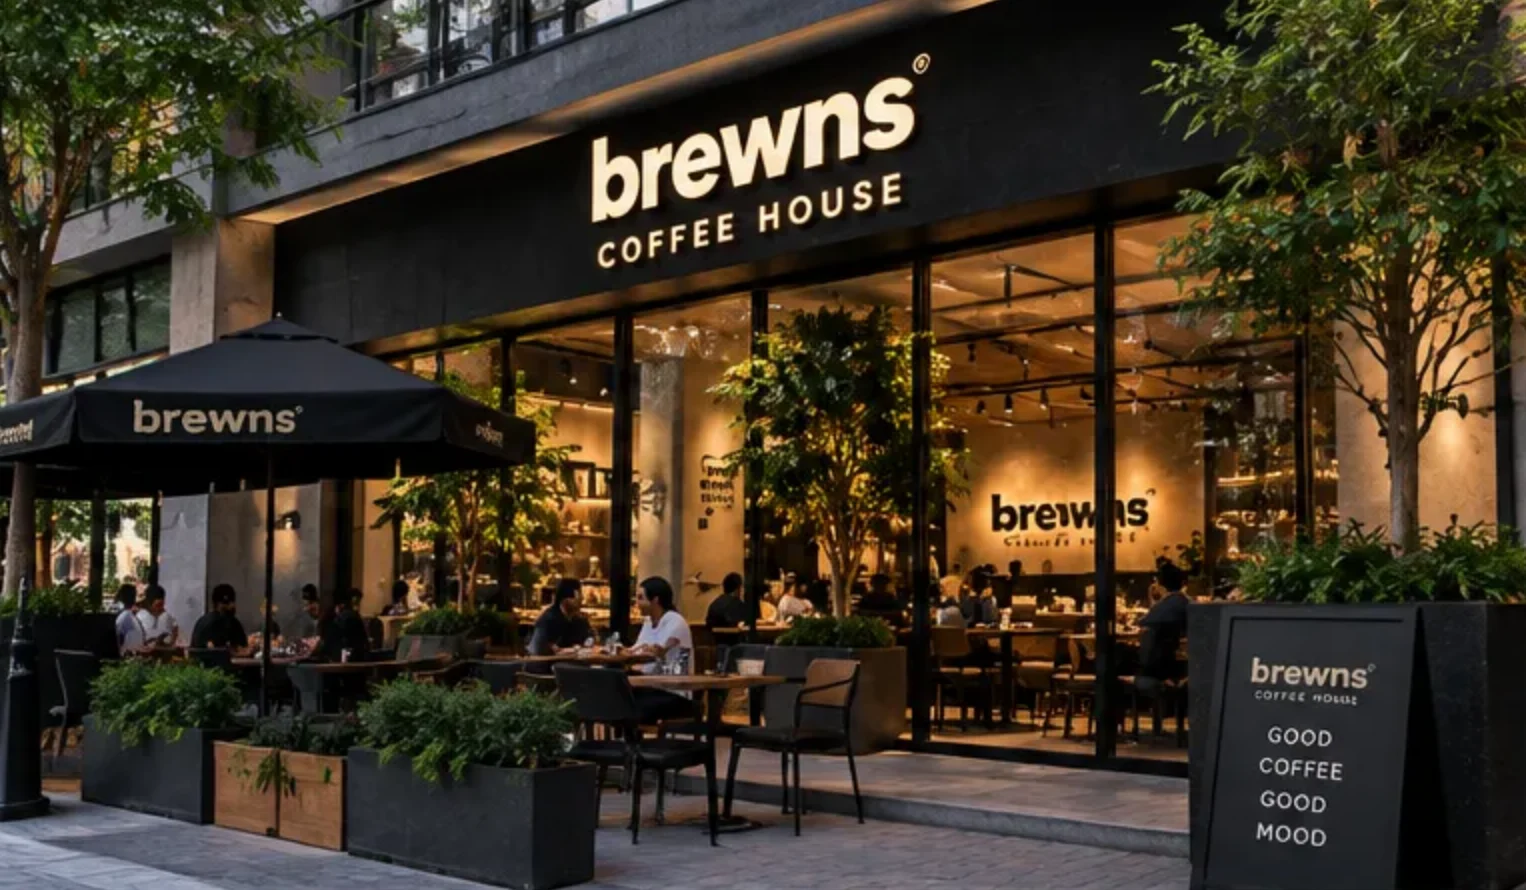
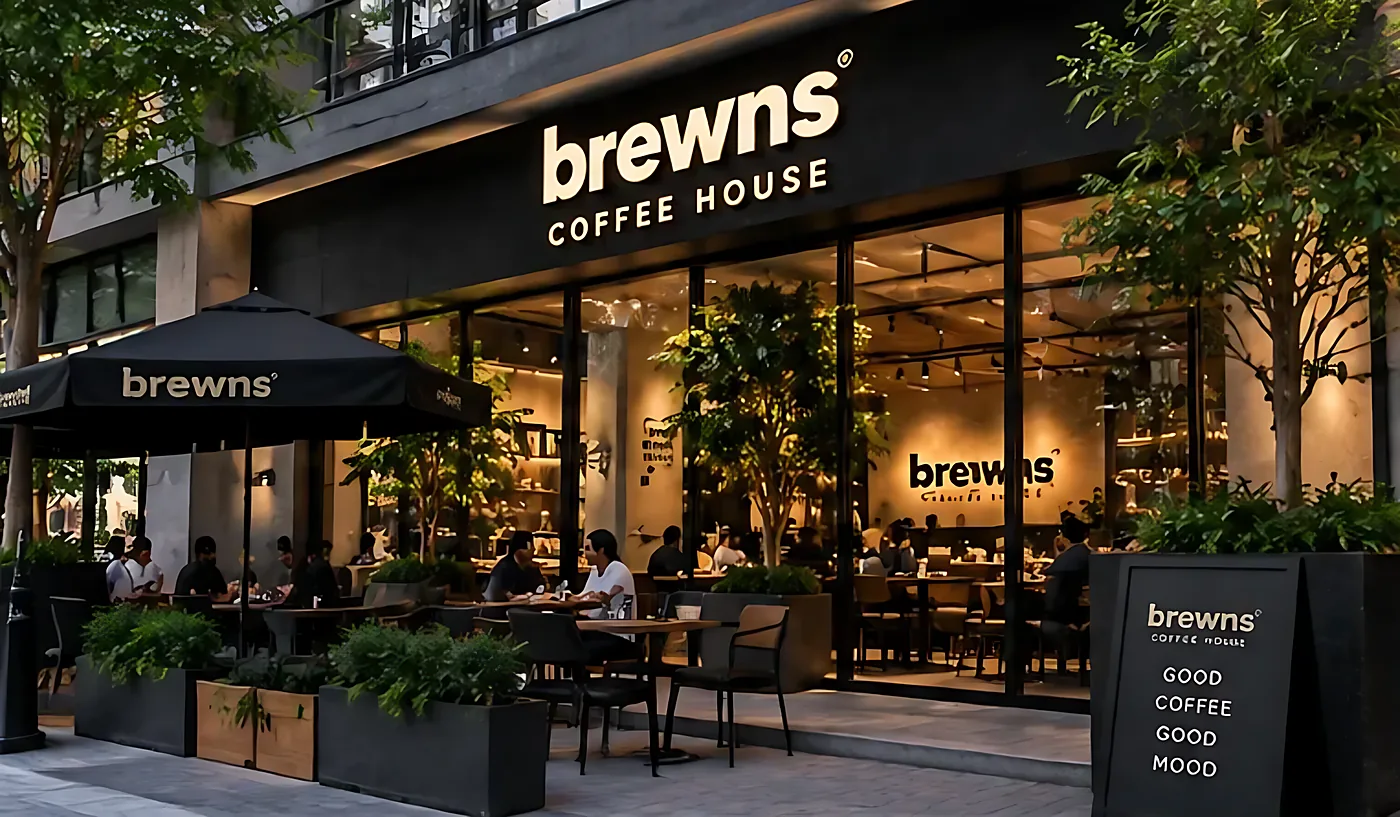
Sharper Inside photos: Real-ESRGAN, two sizes, less zoom
- The eight Inside brewns photos are sharpened with Real-ESRGAN
  (realesr-general-x4v3): crisp edges and signage, less blur and compression
  noise. scripts/upscale-photos.py reads the model's weights without PyTorch,
  rebuilds the network as ONNX and runs it on the CPU; originals are kept in
  assets-src/locations/inside/
- Two sizes per photo, picked per tile with srcset: 1400 px for the page and
  2400 px for big screens; the viewer always shows the 2400 px one
- The drift and hover zoom enlarge the photos much less (6.5% instead of 12%,
  drift 3% instead of 5%) and the will-change hint is gone, so the browser
  no longer shows a softened, upscaled layer

Claude-Session: https://claude.ai/code/session_01KXNNWqCmnSiRyxWub1HZV8

diff --git a/components/brewns/initBrewns.ts b/components/brewns/initBrewns.ts
@@ -1072,6 +1072,16 @@ inview($(".ftr-giant"), { opacity: 0, y: 80 }, { opacity: 1, y: 0 }, { config: C
   const box = $("#inside-box");
   const tiles = $$(".inside-open");
   const grid = $(".inside-grid");
+  // Each photo comes in two sizes (scripts/upscale-photos.py): 1400 px for the
+  // page, 2400 px for big screens and the viewer. The browser picks per tile.
+  const hiRes = (src) => src.replace(/(@2x)?\.webp(\?.*)?$/, "@2x.webp");
+  tiles.forEach((t) => {
+    const img = $("img", t);
+    const src = img.getAttribute("src");
+    const tile = t.parentElement;
+    img.srcset = `${src} 1400w, ${hiRes(src)} 2400w`;
+    img.sizes = tile.matches(".big, .wide") ? "(min-width: 1100px) 38vw, (min-width: 800px) 50vw, 100vw" : "(min-width: 1100px) 19vw, (min-width: 800px) 25vw, 50vw";
+  });
 
   /* ── right now: open or closed, how busy it usually is, what's there ── */
   // Typical busyness by hour, 07:00–20:00 (0–100). Weekends run later.
@@ -1136,7 +1146,7 @@ inview($(".ftr-giant"), { opacity: 0, y: 80 }, { opacity: 1, y: 0 }, { config: C
       for (const t of tiles) {
         const r = t.getBoundingClientRect();
         const p = Math.max(-1, Math.min(1, (r.top + r.height / 2 - vh / 2) / vh));
-        $("img", t).style.translate = `0 ${(-p * 5).toFixed(2)}%`;
+        $("img", t).style.translate = `0 ${(-p * 3).toFixed(2)}%`;
       }
     });
 
@@ -1183,7 +1193,7 @@ inview($(".ftr-giant"), { opacity: 0, y: 80 }, { opacity: 1, y: 0 }, { config: C
     const img = $("img", tiles[at]);
     const cap = tiles[at].parentElement.querySelector("figcaption");
     const swap = () => {
-      bigImg.src = img.src;
+      bigImg.src = hiRes(img.getAttribute("src"));
       bigImg.alt = img.alt;
       bigImg.classList.remove("out");
     };
@@ -1196,7 +1206,7 @@ inview($(".ftr-giant"), { opacity: 0, y: 80 }, { opacity: 1, y: 0 }, { config: C
     $$("[data-inside-go]", box).forEach((b, k) => b.setAttribute("aria-selected", String(k === at)));
     $(`[data-inside-go="${at}"]`, box)?.scrollIntoView({ block: "nearest", inline: "center" });
     // warm the neighbours so stepping is instant
-    [at + 1, at - 1].forEach((k) => (new Image().src = $("img", tiles[(k + tiles.length) % tiles.length]).src));
+    [at + 1, at - 1].forEach((k) => (new Image().src = hiRes($("img", tiles[(k + tiles.length) % tiles.length]).getAttribute("src"))));
   };
   const close = () => {
     box.hidden = true;

diff --git a/app/sections.css b/app/sections.css
@@ -163,7 +163,7 @@
 .inside-tile.wide { grid-column: span 2; }
 @media (max-width: 799.98px) { .inside-tile.big { grid-row: span 2; } }
 .inside-open { display: block; width: 100%; height: 100%; cursor: zoom-in; }
-.inside-tile img { width: 100%; height: 100%; object-fit: cover; transition: transform 900ms var(--ease-entrance), filter 600ms; filter: saturate(0.95); }
+.inside-tile img { width: 100%; height: 100%; object-fit: cover; transition: transform 900ms var(--ease-entrance), filter 600ms; }
 .inside-tile:hover img { transform: scale(1.06); filter: saturate(1.1); }
 .inside-tile figcaption {
   position: absolute; left: 0; right: 0; bottom: 0; display: flex; flex-direction: column; gap: 0.15rem; padding: 2.5rem 0.9rem 0.8rem; pointer-events: none;
@@ -366,8 +366,9 @@
 .inside-amen svg { width: 1.05rem; height: 1.05rem; flex: none; color: #d8b777; }
 
 /* photos: drift with the page (translate), zoom on hover (scale), the rest dim */
-.inside-tile img { transform: none; scale: 1.12; translate: 0 0; transition: scale 900ms var(--ease-entrance), filter 500ms; will-change: translate; }
-.inside-tile:hover img { transform: none; scale: 1.18; filter: saturate(1.1); }
+/* only as much zoom as the 3% drift needs, so the photos stay sharp */
+.inside-tile img { transform: none; scale: 1.065; translate: 0 0; transition: scale 900ms var(--ease-entrance), filter 500ms; }
+.inside-tile:hover img { transform: none; scale: 1.11; filter: saturate(1.08); }
 @media (hover: hover) { .inside-grid:hover .inside-tile:not(:hover) img { filter: saturate(0.75) brightness(0.62); } }
 .inside-tile::after { content: ""; position: absolute; inset: 0; border-radius: inherit; box-shadow: inset 0 0 0 1px rgb(216 183 119 / 0); transition: box-shadow 400ms; pointer-events: none; }
 .inside-tile:hover::after { box-shadow: inset 0 0 0 1px rgb(216 183 119 / 0.55); }

diff --git a/scripts/upscale-photos.py b/scripts/upscale-photos.py
@@ -1,0 +1,148 @@
+"""
+Sharpens photos with Real-ESRGAN (realesr-general-x4v3, BSD-3-Clause, by
+Xintao Wang et al.), a small network made for real-world photos: soft focus,
+upscaling blur and compression artefacts.
+
+It needs no PyTorch: the weights are read straight from the .pth file, the
+network (SRVGGNetCompact) is rebuilt as an ONNX graph, and ONNX Runtime runs
+it on the CPU.
+
+  pip install onnx onnxruntime pillow numpy
+  python scripts/upscale-photos.py public/assets/locations/inside
+
+For every photo it writes two sizes next to the original, from one 4x pass:
+  <name>.webp     1400 px wide, for the page
+  <name>@2x.webp  2400 px wide, for the full-screen viewer and big screens
+The untouched original is kept in assets-src/<folder>/ the first time.
+"""
+import io
+import pickle
+import shutil
+import sys
+import urllib.request
+import zipfile
+from pathlib import Path
+
+import numpy as np
+import onnx
+import onnxruntime as ort
+from onnx import TensorProto, helper, numpy_helper
+from PIL import Image, ImageFilter
+
+ROOT = Path(__file__).resolve().parent.parent
+WEIGHTS_URL = "https://github.com/xinntao/Real-ESRGAN/releases/download/v0.2.5.0/realesr-general-x4v3.pth"
+CACHE = ROOT / "tools" / "upscale"
+SIZES = {"": 1400, "@2x": 2400}
+TILE, PAD = 192, 12
+
+
+def load_pth(path):
+    """A PyTorch state dict as numpy arrays, without PyTorch."""
+    z = zipfile.ZipFile(path)
+    prefix = z.namelist()[0].split("/")[0]
+    kinds = {"FloatStorage": np.float32, "HalfStorage": np.float16}
+
+    class Unpickler(pickle.Unpickler):
+        def find_class(self, mod, name):
+            if name == "_rebuild_tensor_v2":
+                def rebuild(storage, offset, size, stride, *_):
+                    if not size:
+                        return storage[offset:offset + 1].reshape(())
+                    return np.lib.stride_tricks.as_strided(
+                        storage[offset:], shape=size, strides=[s * storage.itemsize for s in stride]
+                    ).copy()
+                return rebuild
+            if name in kinds:
+                return kinds[name]
+            if mod == "collections" and name == "OrderedDict":
+                import collections
+                return collections.OrderedDict
+            return super().find_class(mod, name)
+
+        def persistent_load(self, pid):
+            _, dtype, key, _loc, _n = pid
+            return np.frombuffer(z.read(f"{prefix}/data/{key}"), dtype=dtype)
+
+    obj = Unpickler(io.BytesIO(z.read(f"{prefix}/data.pkl"))).load()
+    return obj.get("params_ema") or obj.get("params") or obj
+
+
+def build_onnx(sd, upscale=4):
+    """SRVGGNetCompact: conv + PReLU layers, pixel shuffle, plus a nearest-neighbour skip."""
+    convs = sorted({int(k.split(".")[1]) for k in sd if k.endswith(".weight") and sd[k].ndim == 4})
+    nodes, inits = [], []
+    x = "input"
+    for i in convs:
+        w, b = f"body.{i}.weight", f"body.{i}.bias"
+        inits += [numpy_helper.from_array(sd[w].astype(np.float32), w), numpy_helper.from_array(sd[b].astype(np.float32), b)]
+        nodes.append(helper.make_node("Conv", [x, w, b], [f"c{i}"], pads=[1, 1, 1, 1]))
+        x = f"c{i}"
+        slope = f"body.{i + 1}.weight"
+        if slope in sd:
+            inits.append(numpy_helper.from_array(sd[slope].astype(np.float32).reshape(-1, 1, 1), slope))
+            nodes.append(helper.make_node("PRelu", [x, slope], [f"a{i}"]))
+            x = f"a{i}"
+    nodes.append(helper.make_node("DepthToSpace", [x], ["up"], blocksize=upscale, mode="CRD"))
+    inits.append(numpy_helper.from_array(np.array([1, 1, upscale, upscale], np.float32), "scales"))
+    nodes.append(helper.make_node("Resize", ["input", "", "scales"], ["base"], mode="nearest"))
+    nodes.append(helper.make_node("Add", ["up", "base"], ["output"]))
+    graph = helper.make_graph(
+        nodes, "srvgg", [helper.make_tensor_value_info("input", TensorProto.FLOAT, [1, 3, None, None])],
+        [helper.make_tensor_value_info("output", TensorProto.FLOAT, [1, 3, None, None])], inits,
+    )
+    # IR 8 / opset 17: readable by any ONNX Runtime from 1.14 on
+    model = helper.make_model(graph, opset_imports=[helper.make_opsetid("", 17)], ir_version=8)
+    onnx.checker.check_model(model)
+    return model
+
+
+def session():
+    CACHE.mkdir(parents=True, exist_ok=True)
+    pth, onx = CACHE / "realesr-general-x4v3.pth", CACHE / "realesr-general-x4v3.onnx"
+    if not onx.exists():
+        if not pth.exists():
+            print("downloading the model (5 MB)…")
+            urllib.request.urlretrieve(WEIGHTS_URL, pth)
+        onnx.save(build_onnx(load_pth(pth)), onx)
+    return ort.InferenceSession(str(onx), providers=["CPUExecutionProvider"])
+
+
+def upscale(sess, img):
+    """4x, in overlapping tiles so memory stays small."""
+    a = np.asarray(img.convert("RGB"), np.float32) / 255.0
+    h, w, _ = a.shape
+    out = np.zeros((h * 4, w * 4, 3), np.float32)
+    for y in range(0, h, TILE):
+        for x in range(0, w, TILE):
+            y0, x0 = max(0, y - PAD), max(0, x - PAD)
+            y1, x1 = min(h, y + TILE + PAD), min(w, x + TILE + PAD)
+            tile = a[y0:y1, x0:x1].transpose(2, 0, 1)[None]
+            res = sess.run(None, {"input": tile})[0][0].transpose(1, 2, 0)
+            ty, tx = (y - y0) * 4, (x - x0) * 4
+            th, tw = min(TILE, h - y) * 4, min(TILE, w - x) * 4
+            out[y * 4:y * 4 + th, x * 4:x * 4 + tw] = res[ty:ty + th, tx:tx + tw]
+    return Image.fromarray((np.clip(out, 0, 1) * 255 + 0.5).astype(np.uint8))
+
+
+def main():
+    folder = Path(sys.argv[1]).resolve()
+    originals = ROOT / "assets-src" / folder.relative_to(ROOT / "public" / "assets")
+    originals.mkdir(parents=True, exist_ok=True)
+    sess = session()
+    photos = [p for p in sorted(folder.iterdir()) if p.suffix.lower() in {".webp", ".jpg", ".jpeg", ".png"} and "@2x" not in p.stem]
+    for p in photos:
+        keep = originals / p.name
+        if not keep.exists():
+            shutil.copy2(p, keep)
+        src = Image.open(keep)
+        big = upscale(sess, src)
+        for suffix, width in SIZES.items():
+            h = round(big.height * width / big.width)
+            im = big.resize((width, h), Image.LANCZOS).filter(ImageFilter.UnsharpMask(radius=1.2, percent=35, threshold=2))
+            dest = folder / f"{p.stem}{suffix}.webp"
+            im.save(dest, "WEBP", quality=82, method=6)
+            print(f"{dest.relative_to(ROOT)}  {width}x{h}  {dest.stat().st_size // 1024} KB")
+
+
+if __name__ == "__main__":
+    main()

diff --git a/README.md b/README.md
@@ -160,6 +160,17 @@ bun run kitchen:white --all    # redo them all from the originals
 
 It cuts each dish out of its background, centres it on a white 1000 px square with a soft shadow, and keeps the untouched original in `assets-src/kitchen/`. It runs on your own computer. The first run installs the cut-out model (about 300 MB) into `tools/kitchen-white/`, separately from the site's own install, so deploys stay small.
 
+### Sharper photos
+
+The Inside brewns photos are sharpened with Real-ESRGAN (`realesr-general-x4v3`), which recovers edges and removes blur and compression artefacts. It runs on the CPU with ONNX Runtime, no PyTorch or GPU needed:
+
+```bash
+pip install onnx onnxruntime pillow numpy
+python scripts/upscale-photos.py public/assets/locations/inside
+```
+
+Each photo gets two sizes: `<name>.webp` (1400 px, for the page) and `<name>@2x.webp` (2400 px, for big screens and the full-screen viewer); the page picks the right one with `srcset`. Originals are kept in `assets-src/`. Sharpening can't fix what isn't in the photo, such as misspelled signage in AI-made images.
+
 ### Bag and cup pictures
 
 The coffee bags and cups in the shop grid are pictures rendered from the 3D packaging, stored in `public/assets/shop/snap/`, so visitors' phones don't render them with WebGL. After changing the packaging (`pdp3dEngine.ts` or `models.glb`), run the dev server, then:
